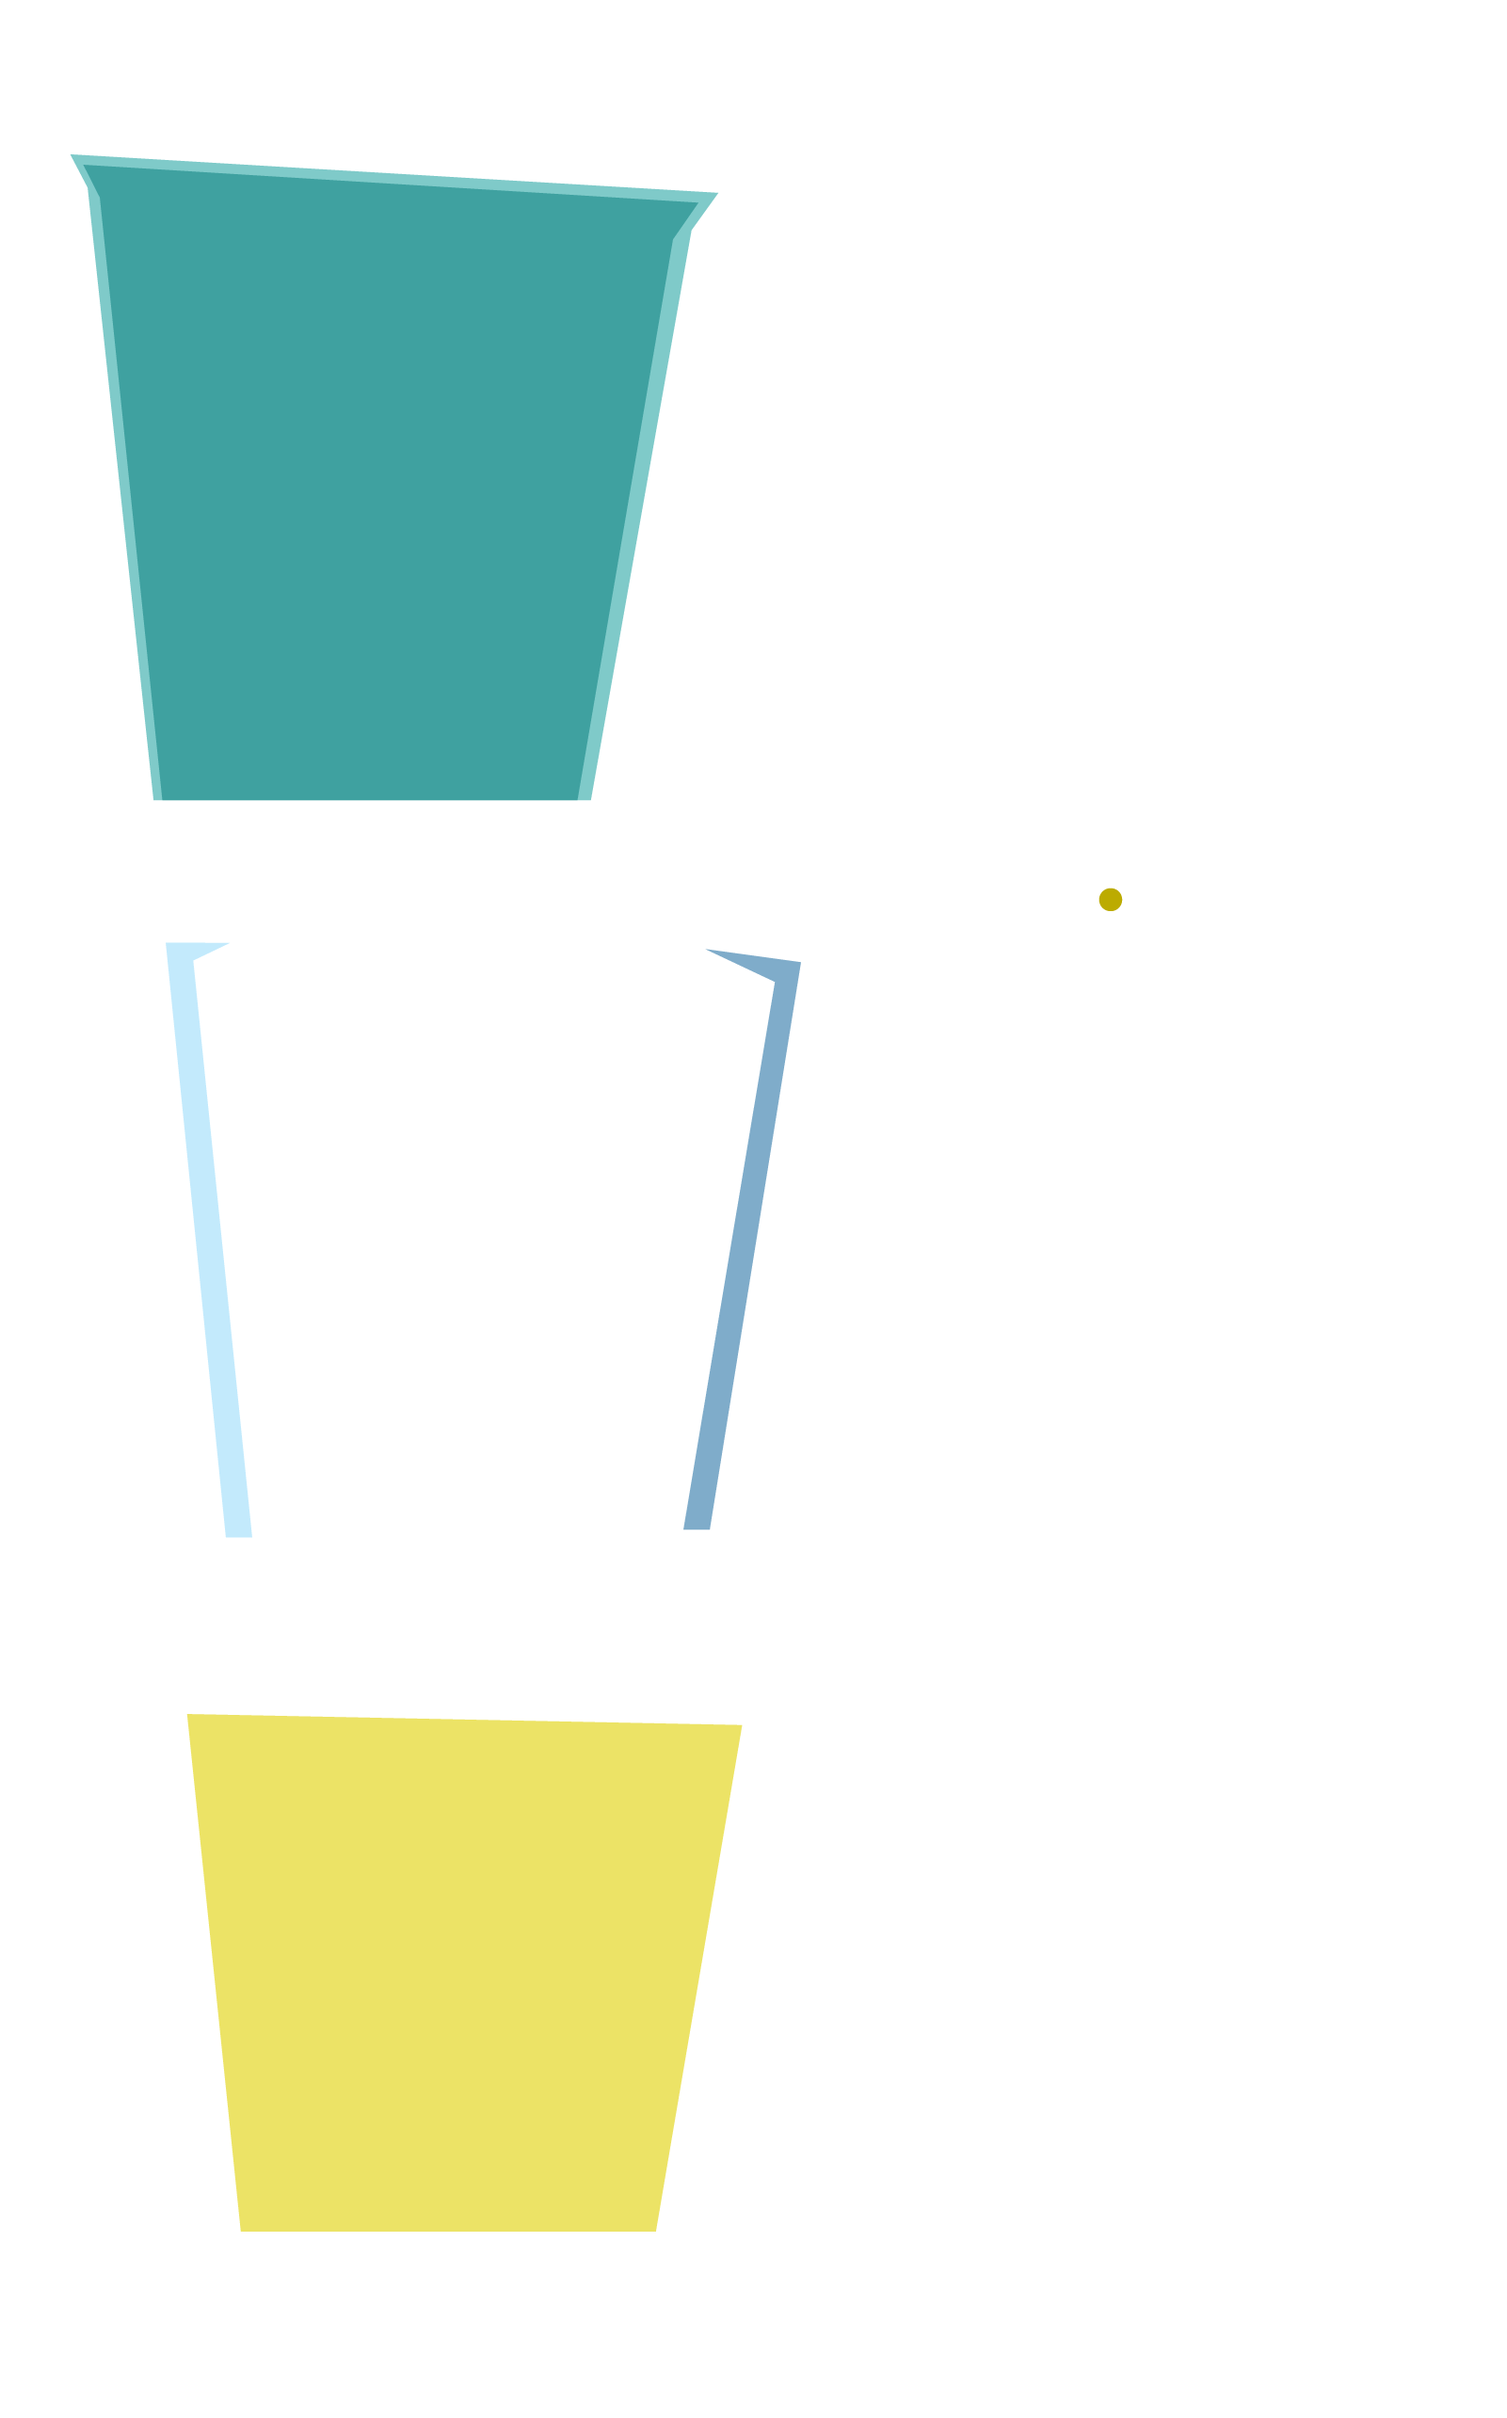
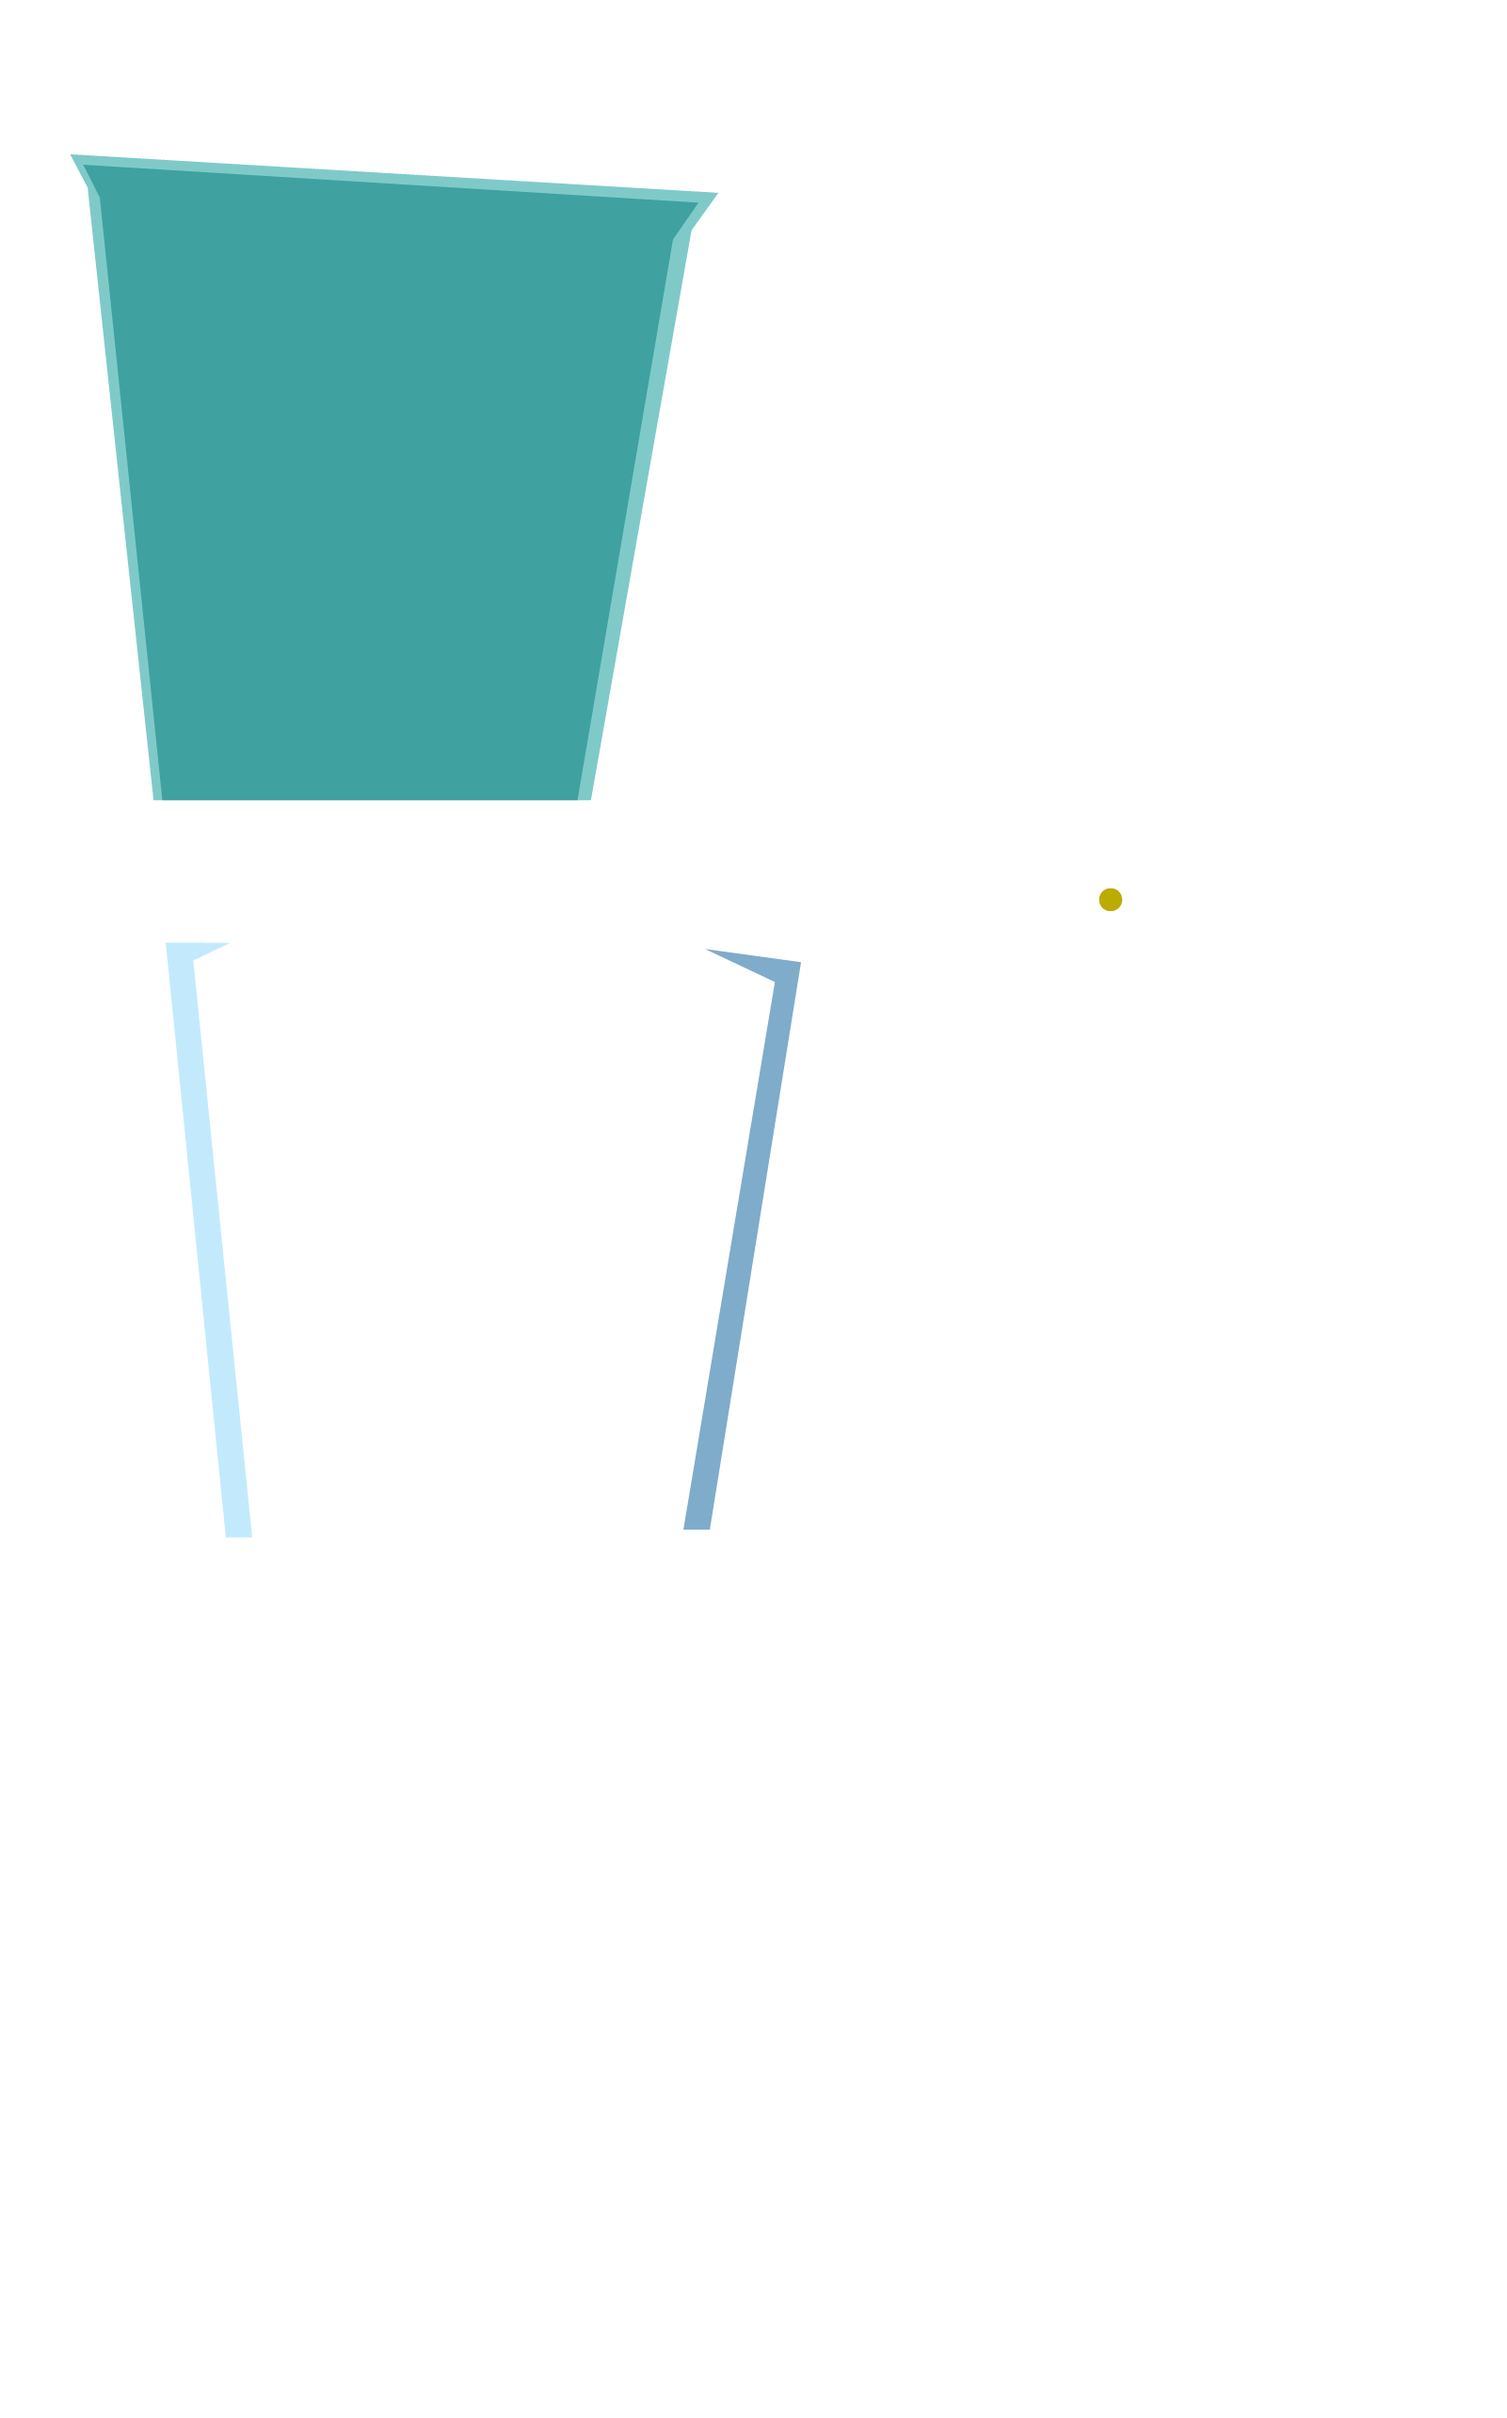
Agregando colores para las dosis de la inyectadora y el liquido de los embriones

Changed region(s): [[0.1249, 0.6851, 0.4997, 0.9342]]

diff --git a/Assets/Scripts/Robot.cs b/Assets/Scripts/Robot.cs
@@ -7,9 +7,13 @@ public class Robot : MonoBehaviour {
 	public float movspeed;
 	public float edge_left;
 	public float edge_right;
+	public Color[] dosis;
+	public Color actualDose;
+	public GameObject marcador;
+	public int doseIndex = 2;
 	
 	void Start () {
-
+		SetDose ();
 	}
 
 	void Update () {
@@ -23,5 +27,26 @@ public class Robot : MonoBehaviour {
 					transform.position = new Vector2(transform.position.x + movspeed, transform.position.y);
 			}
 		}
+	}
+
+	void FixedUpdate(){
+		if (Gamemaster.instance.playerControl) {
+			if (Input.GetKeyDown(KeyCode.UpArrow)){
+				if (doseIndex >= 1){
+					doseIndex -= 1;
+					SetDose();
+				}
+			}
+			else if (Input.GetKeyDown(KeyCode.DownArrow)){
+				if (doseIndex < dosis.Length-1){
+					doseIndex += 1;
+					SetDose();
+				}
+			}
+		}
+	}
+
+	void SetDose(){
+		marcador.GetComponent<SpriteRenderer> ().color = dosis [doseIndex];
 	}
 }

diff --git a/Assets/Scripts/FlaskColor.cs b/Assets/Scripts/FlaskColor.cs
@@ -1,0 +1,19 @@
+using UnityEngine;
+using System.Collections;
+
+public class FlaskColor : MonoBehaviour {
+	public Color[] castas;
+	public Color actualCasta;
+	public GameObject liquido;
+	public int casta;
+	// Use this for initialization
+	void Start () {
+		casta = Random.Range (0, castas.Length - 1);
+		liquido.GetComponent<SpriteRenderer> ().color = castas [casta];
+	}
+	
+	// Update is called once per frame
+	void Update () {
+	
+	}
+}
